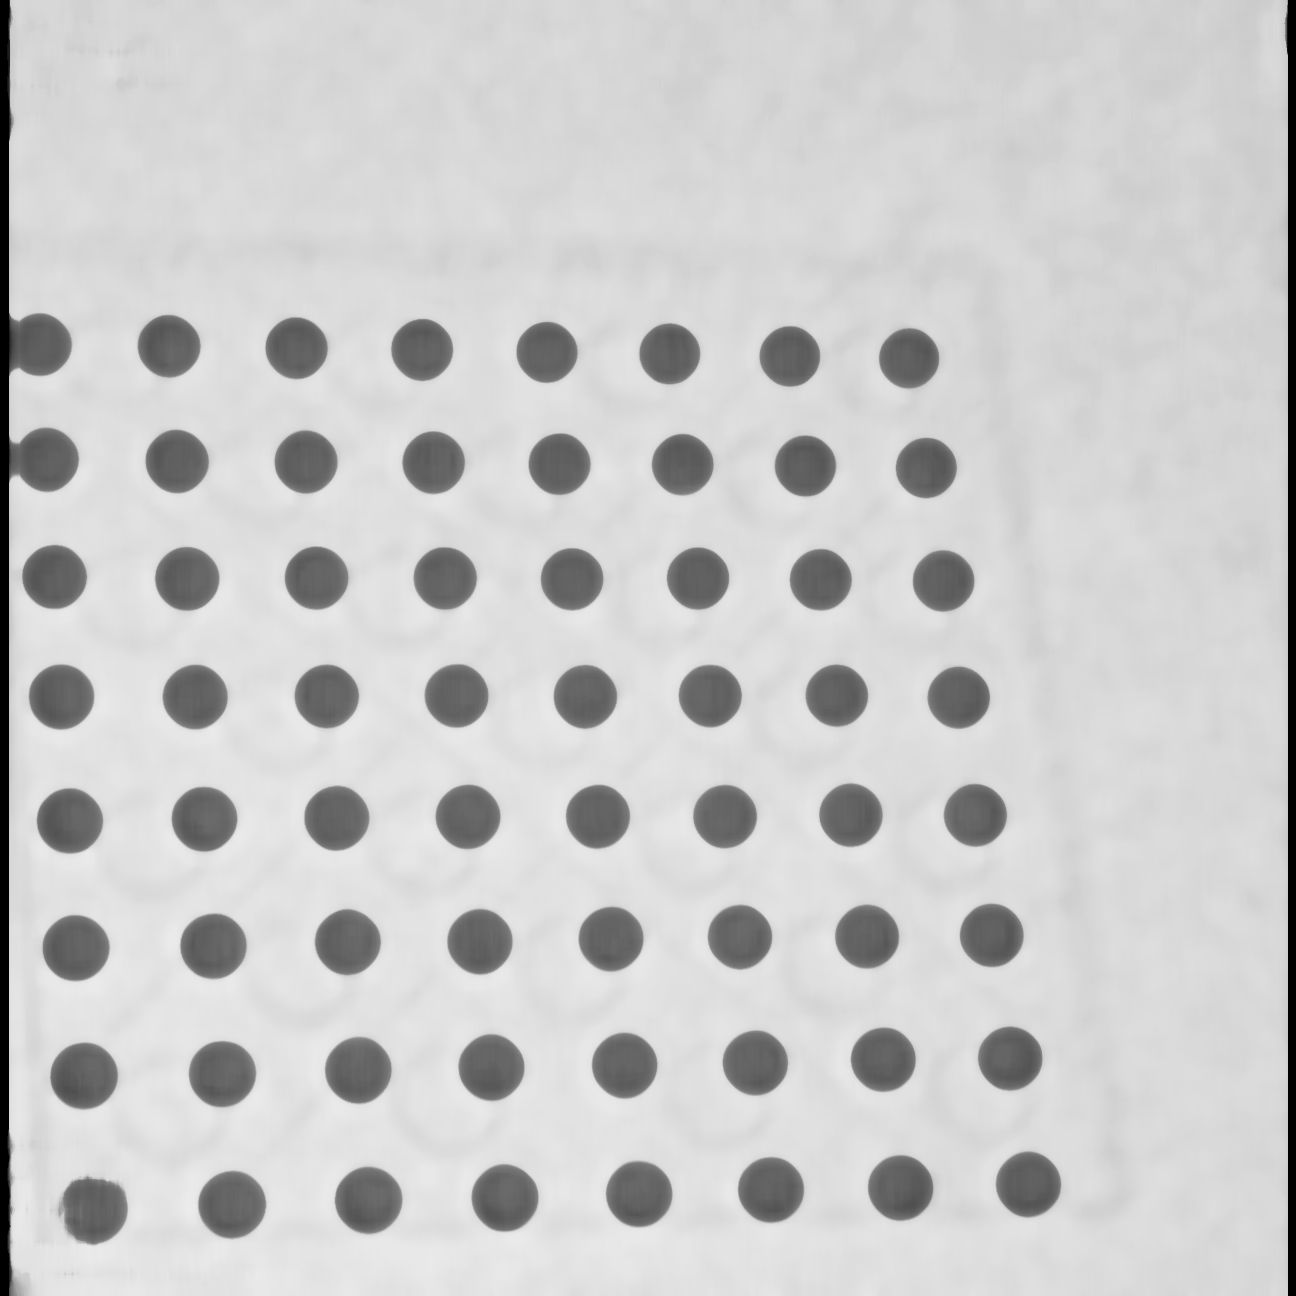
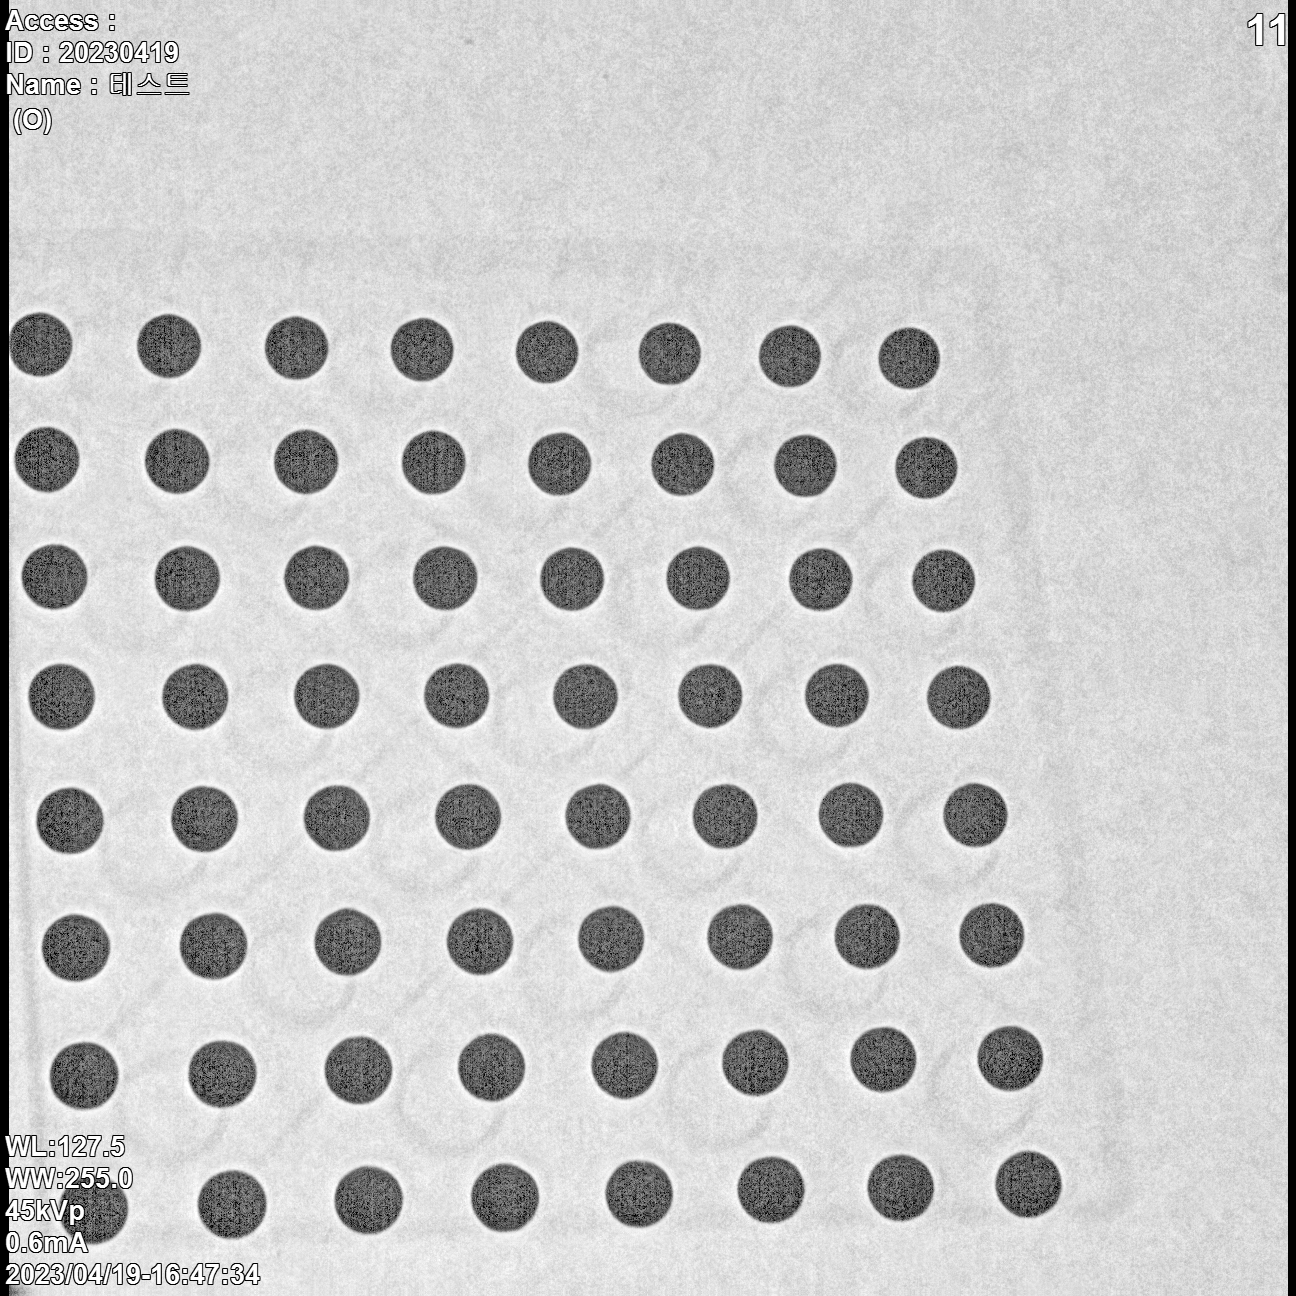
perfect_circle

diff --git a/EHmin/check_circle copy.py b/EHmin/check_circle copy.py
@@ -45,12 +45,14 @@ for j in range(17):
         s = keypoint.size
         r = int(math.floor(s / 2))
         cv.circle(imgInit, (x, y), r, (256, 200, 0), 3) # draw circle
-        cv.putText(imgInit, str(x) + "," + str(y),(x,y), fontFace, fontScale, color, thickness, lineType)
+        # cv.putText(imgInit, str(x) + "," + str(y),(x,y), fontFace, fontScale, color, thickness, lineType)
         # print(x,y)
     print(len(keyPoints))
     print()
+    if j == 14:
+        cv.circle(imgInit, (51, 1185), 32, (256, 200, 0), 3)
     # cv.imshow(str(j),imgInit) # visualize 
-    cv.imwrite(str(j) + '.png', imgInit)
+    cv.imwrite('./perfect_circle/'+str(j) + '.png', imgInit)
     cv.waitKey(0)
     
 cv.waitKey(0)

diff --git a/EHmin/image_preprocess.py b/EHmin/image_preprocess.py
@@ -22,6 +22,9 @@ import numpy as np
 for j in range(17):
     IMG_PATH ='./newData/'+ str(7062 + j + 1)+ '.png'
     imgInit = cv.imread(IMG_PATH,cv.IMREAD_GRAYSCALE)
+    if j == 10:
+        cv.imwrite("./processed/"+ str(j)+'.png', imgInit)
+        continue
     result = cv.medianBlur(imgInit,21)
     # _, result = cv.threshold(result,200,255,cv.THRESH_BINARY)
     kernel = np.ones((9, 1), np.uint8)

diff --git a/EHmin/hardcoding.py b/EHmin/hardcoding.py
@@ -1,0 +1,15 @@
+import cv2 as cv 
+import numpy as np
+
+IMG_PATH ='./newData/7077.png'
+imgInit = cv.imread(IMG_PATH,cv.IMREAD_GRAYSCALE)
+
+cv.circle(imgInit, (48, 1180), 30, (256, 200, 0), 3)
+cv.imshow('0',imgInit)
+cv.imwrite("./processed/"+ str(j)+'.png', result)
+
+
+
+
+
+cv.waitKey(0)
